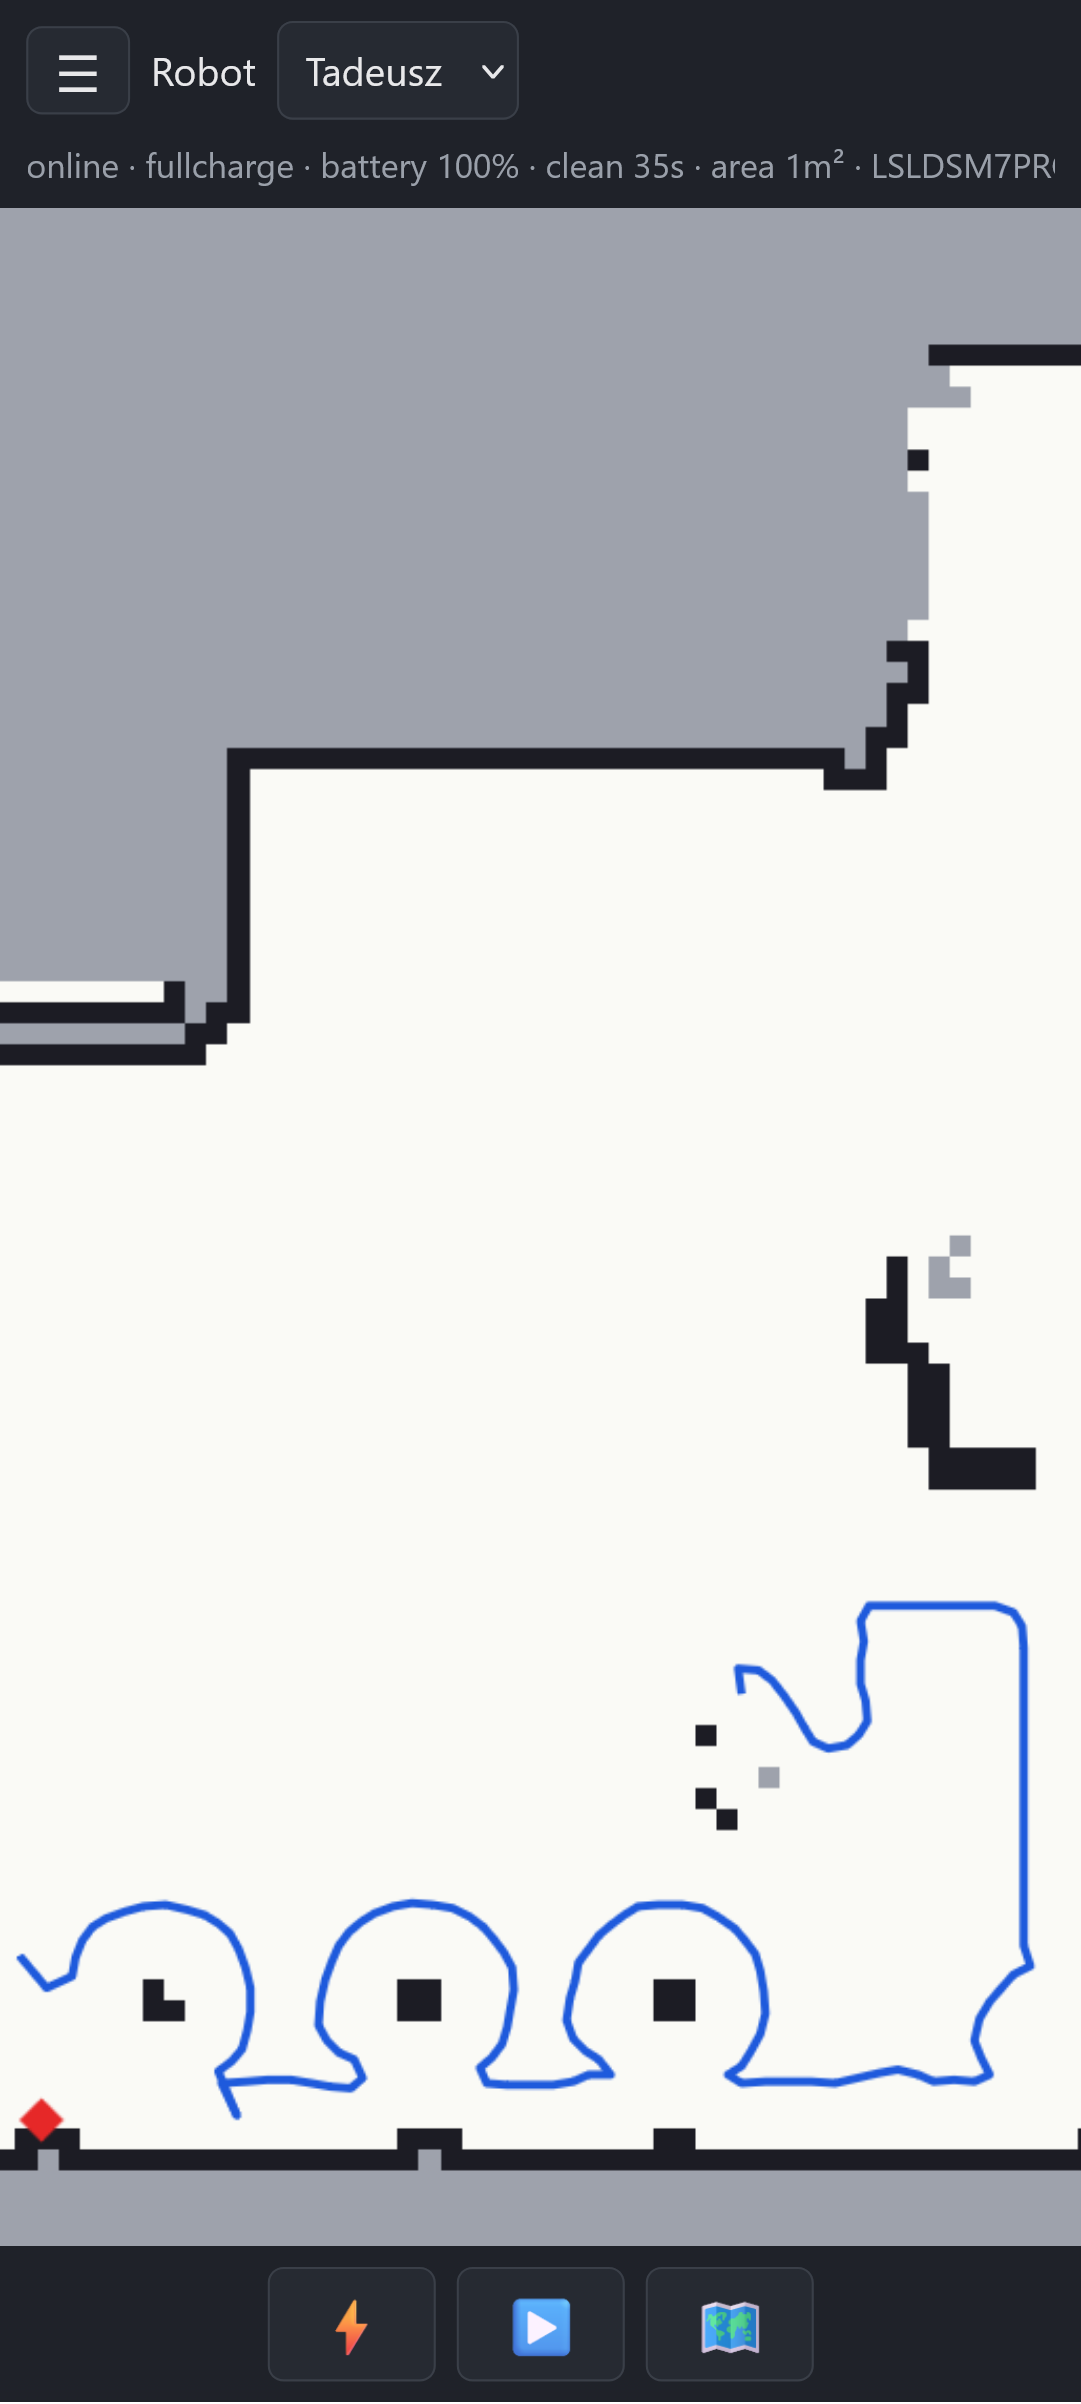
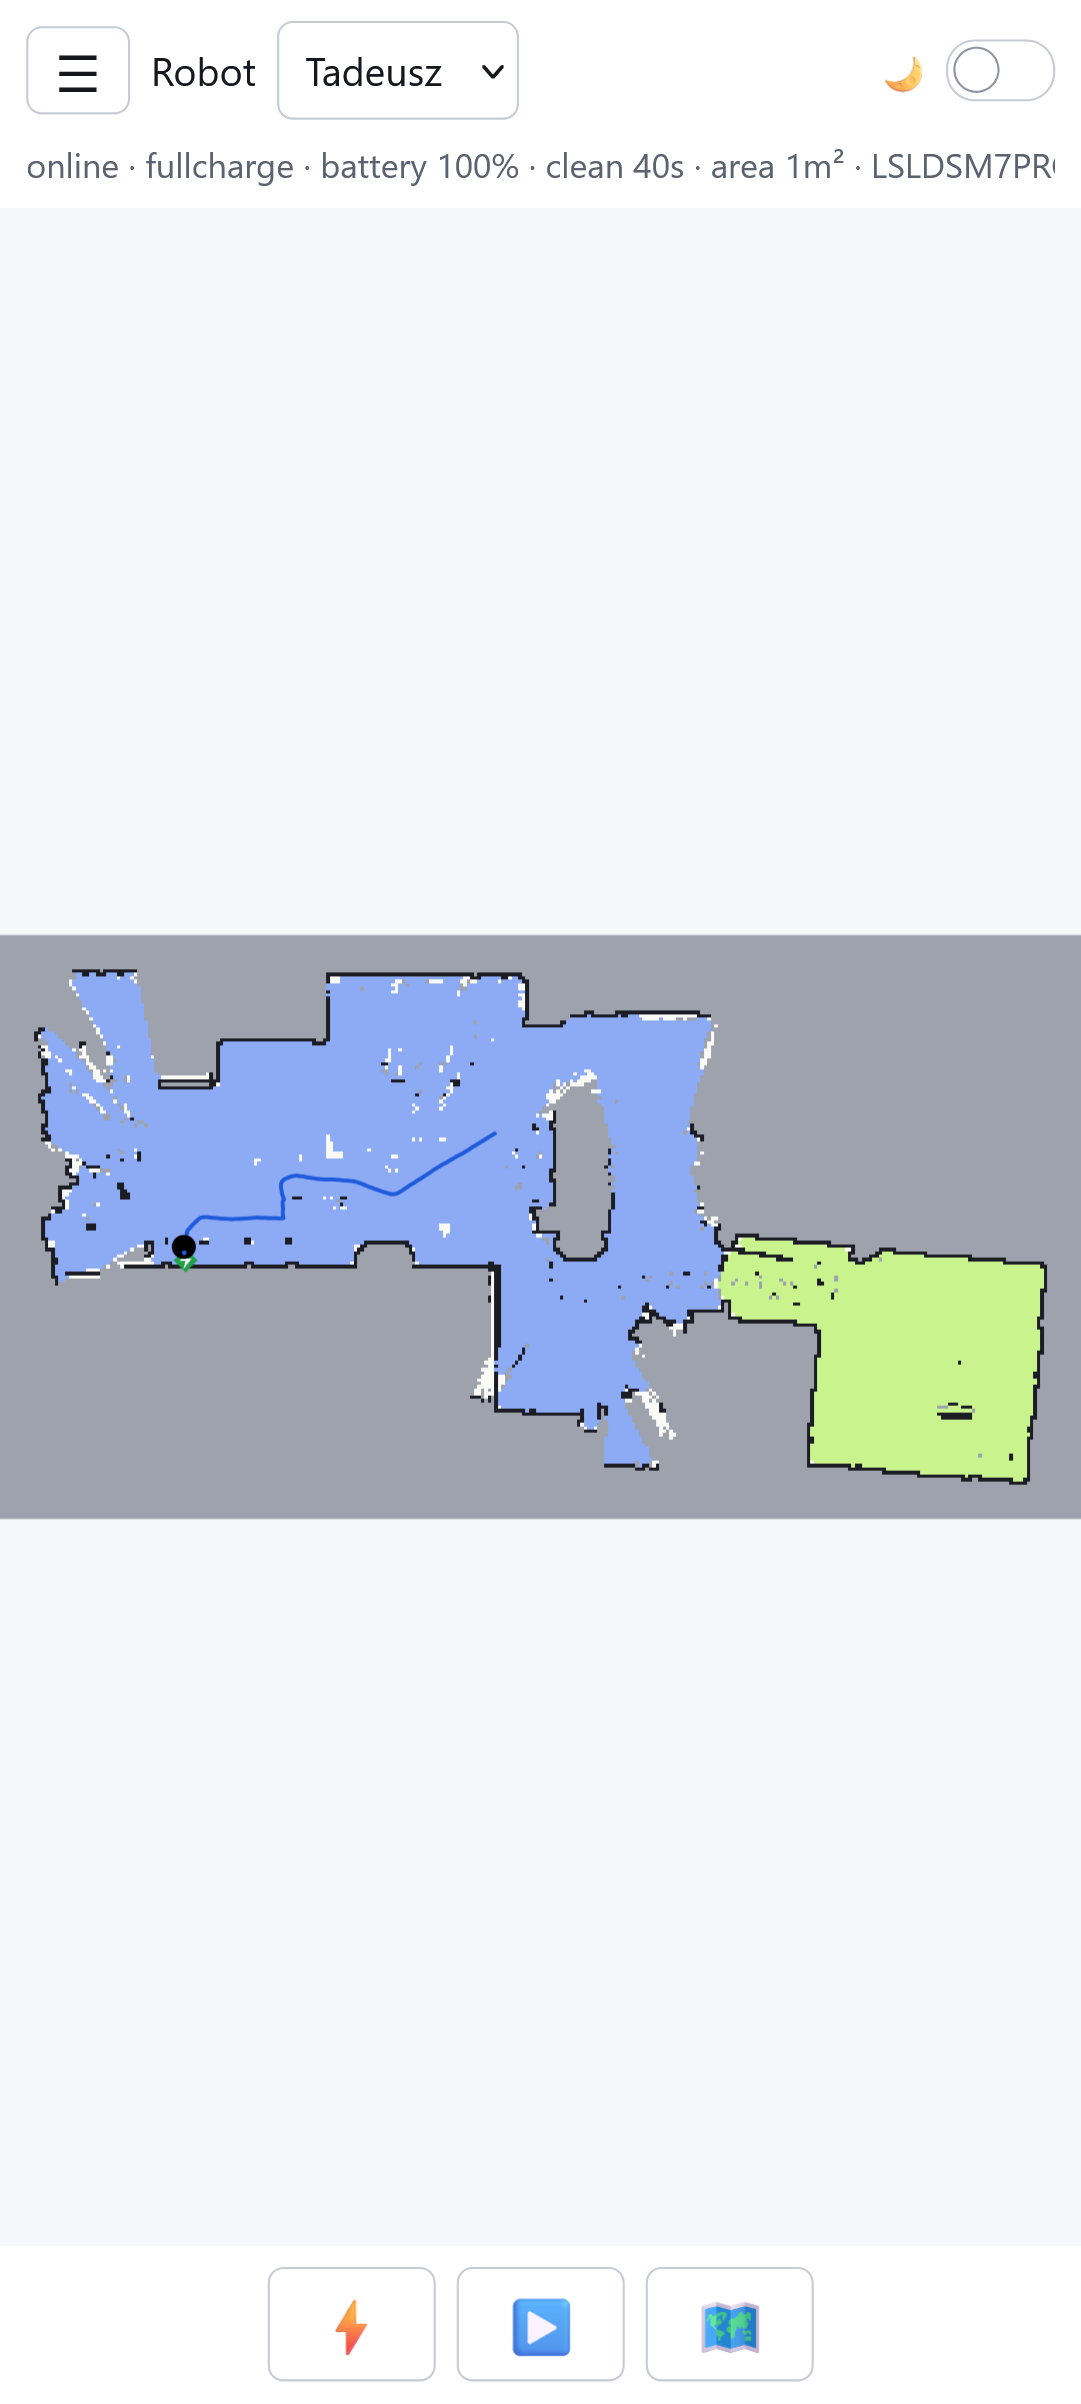
Readme and screenshot update

diff --git a/README.md b/README.md
@@ -1,28 +1,31 @@
 # noobscenic
 
+![noobscenic icon](web/favicon.png)
+
 A clean-room, reverse-engineered replacement server for the **Proscenic M7 Pro**
 robot vacuum, written in Rust.
 
-The goal is to re-home the robot to a server you control — re-implementing the
-vendor cloud's REST API, push gateway, and the local UDP config protocol — so it
-keeps working without ever talking to Proscenic.
+The goal is to re-home (pair) the robot to a server you control —
+re-implementing the vendor cloud APIs and protocols — so it keeps working
+without actually ever talking to the vendor cloud.
 
-Protocol analysis and reverse-engineering artifacts live in [`doc/`](doc/).
+⚠ The software assumes single household use and exposure to LAN only — it lacks
+access control (authentication) or security features (HTTPS). **Run it exposed
+to the internet at your own risk.** ⚠
 
 Status:
 - ☑ re-homing (pairing) works,
-- ☑ channel A (REST) real register/session/sync flow works,
-- ☑ channel B (real-time) both delivers commands and takes telemetry,
-- ☑ decoded maps, assembled clean paths,
-- ☑ ACK-correlated command queue (console and one-shot CLI),
-- ☑ SQLite persistent storage with trace references,
-- ☑ AES command encryption is configurable;
-- ☑ a web UI to watch and pan/zoom the map and path, send the basic commands, steer the robot, edit zones, rename robots and export/restore map backups,
-- ⬜ the trace viewer, replay mode and TLS are deliberately postponed (see "Not yet implemented").
+- ☑ commands, robot responses, and telemetry all work,
+- ☑ maps, zones, paths - decoded, rendered, imported and exported,
+- ☑ SQLite persistent storage,
+- ☑ a web UI to control the robot.
 
-![Screenshot of the WIP web UI](doc/screenshot.png) ![Screenshot of the remote control](doc/screenshot2.png)
+ℹ *The web UI is run from the server itself and is mobile-friendly. No separate
+mobile app is planned.*
 
-## Operator guide
+![Screenshot of the WIP web UI](doc/screenshot.png) ![Screenshot of the zone editing view](doc/screenshot2.png)
+
+## Usage guide
 
 ### What you need
 
@@ -92,7 +95,24 @@ working directory; unknown keys are rejected). The interesting ones:
   `send <sn> 21017 {"cmd":"stop"}` ends it, and `send <sn> 21012 {"cmd":"start"}`
   sends the robot home.
 
-### 4. Backing out
+### 4. Normal use
+
+Open the server address on port 8080 in a browser:
+
+
+### Troubleshooting
+
+If the rehoming tool reports no robot, check the robot is in pairing mode and
+this machine is on the `Proscenic-` network, not still on its normal Wi-Fi.
+
+If nothing reaches the server after the switch, check the firewall — a missing
+inbound "allow" rule, or a "deny" rule, can drop the robot's packets silently.
+The default ports are 8080 and 8081, TCP.
+
+If the robot stops reaching the server later, its configured `server-address`
+may have changed: use a DHCP reservation, a static address, or a DNS name.
+
+### Backing out
 
 - **Stop the server** — console `quit`, or Ctrl-C. The robot keeps working from its
   own panel; you lose the app-style control, telemetry and maps until it is re-homed.
@@ -105,26 +125,22 @@ working directory; unknown keys are rejected). The interesting ones:
   re-adding is refused, a factory reset clears the robot side.
 - **Forget everything we stored**: delete `var/`.
 
-### Troubleshooting
+### Not yet implemented (perhaps deliberately postponed)
 
-If the tool reports no robot, check the robot is in pairing mode and this machine is
-on the `Proscenic-` network, not still on its normal Wi-Fi.
-
-If nothing reaches the server after the switch, check the firewall — a missing
-inbound "allow" rule, or a "deny" rule, can drop the robot's packets silently. The
-default ports are 8080 and 8081, TCP.
-
-If the robot stops reaching the server later, its configured `server-address` may
-have changed: use a DHCP reservation, a static address, or a DNS name.
-
-### Not yet implemented (deliberately postponed)
+Protocol analysis and reverse-engineering artifacts live in [`doc/`](doc/).
 
 Planned, but not a priority at the moment:
 
-- `noobscenic trace <file>` — render a wire capture as a readable timeline.
-- `--replay` — feed a recorded capture back into a fresh server as a regression test.
-- TLS on the listeners — only useful for a DNS-override deployment that impersonates
-  the vendor hostname. The robot validates no certificates, so a self-signed cert
-  would do, and the re-homed path needs none of it.
+- Scheduled cleaning. Not a feature I ever used myself.
+- Some robot settings, such as speaker volume, water pump strength are not
+  exposed yet.
+- `noobscenic trace <file>` — rendering a wire capture as a readable timeline.
+  Cool, but not exactly necessary.
+- `--replay` — feed a recorded capture back into a fresh server as a regression
+  test. Same as above.
+- TLS on the listeners — only useful for a DNS-override deployment that
+  impersonates the vendor hostname. The robot validates no certificates, so a
+  self-signed cert would do, and the re-homed path needs none of it.
+- Exploit for uploading a homebrew firmware. Needs security research.
 
 See [`doc/PLAN.md`](doc/PLAN.md) §14 for what these would look like.
